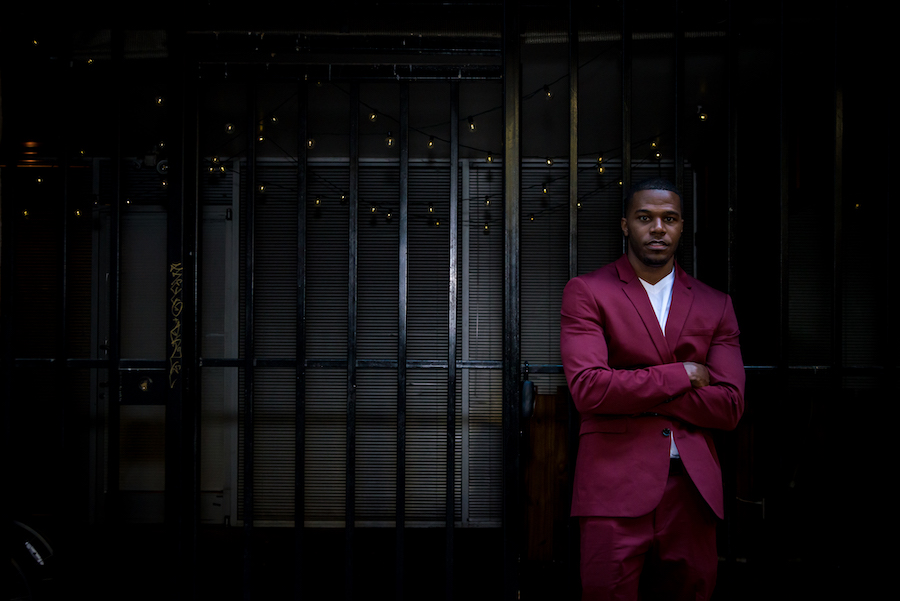
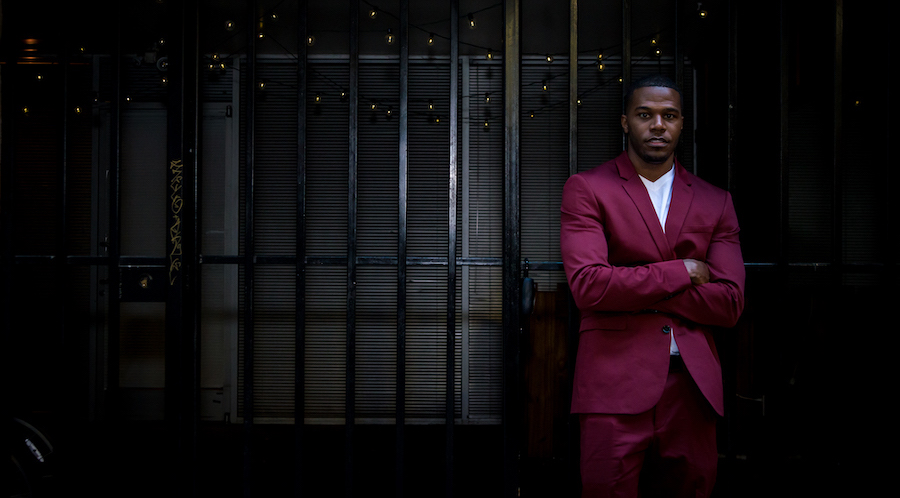
about page layout

diff --git a/portfolio/src/components/About.js b/portfolio/src/components/About.js
@@ -7,13 +7,25 @@ function About() {
         <div className="about">
             <div className="container">
                 <div className="row">
-                    <div className="col-lg-6 card-body">
-                        <h3 class="card-title text-danger border-bottom border-white">about me</h3>
-                        <p class="card-text text-white " id="intro">Hello, I’m <span class="text-danger">Joe King</span>.
+                    <div className="col-lg-6 card-body aboutme">
+                        <h5 class="card-title text-info border-bottom border-white">
+                        About Me
+                        </h5>
+                        <p class="card-text text-white">
+                        Hello, I’m <span class="text-info">Joe King</span>.
                         <br />
-                        I’m a student in the Vanderbilt University full stack web development bootcamp. I'm from Knoxville,TN
-                        were I went to The University of Tennessee and graduated with a B.S. in Journalism &amp; Electronic
-                        Media.
+                        After nearly a decade of experience in television production I decided to learn full stack web development as a cohort in the Vanderbilt University coding bootcamp. 
+                        I'm originally from Knoxville,TN where I attended The University of Tennessee and graduated with a B.S. in Journalism &amp; Electronic
+                        Media. After 12 weeks of being exposed to a full stack of development areas, I found an interest in pursuing a front-end path. 
+                        </p>
+                        <h5 class="card-title text-info">
+                        Contact Details
+                        </h5>
+                        <p class="card-text text-white contact">
+                        Joe King <br/>
+                        Franklin, TN 37067 <br/>
+                        <a href="tel:865-789-6607">865-789-6607</a> <br />
+                        <a href="mailto:jking0186@gmail.com">jking0186@gmail.com</a>
                         </p>
                     </div>
                 </div>

diff --git a/portfolio/src/styles/About.css b/portfolio/src/styles/About.css
@@ -1,6 +1,6 @@
 .about {
     position: relative;
-    height: 700px;
+    height: 600px;
     min-height: 500px;
     width: 100%;
     background: url(../images/joeking-36.jpg) no-repeat top center;
@@ -8,4 +8,14 @@
     -webkit-background-size: cover;
     text-align: center;
     overflow: hidden;
+}
+
+.aboutme {
+    position: relative;
+    padding: 70px;
+    font-size: 18px;
+}
+
+.contact a {
+    color: #fff;
 }
